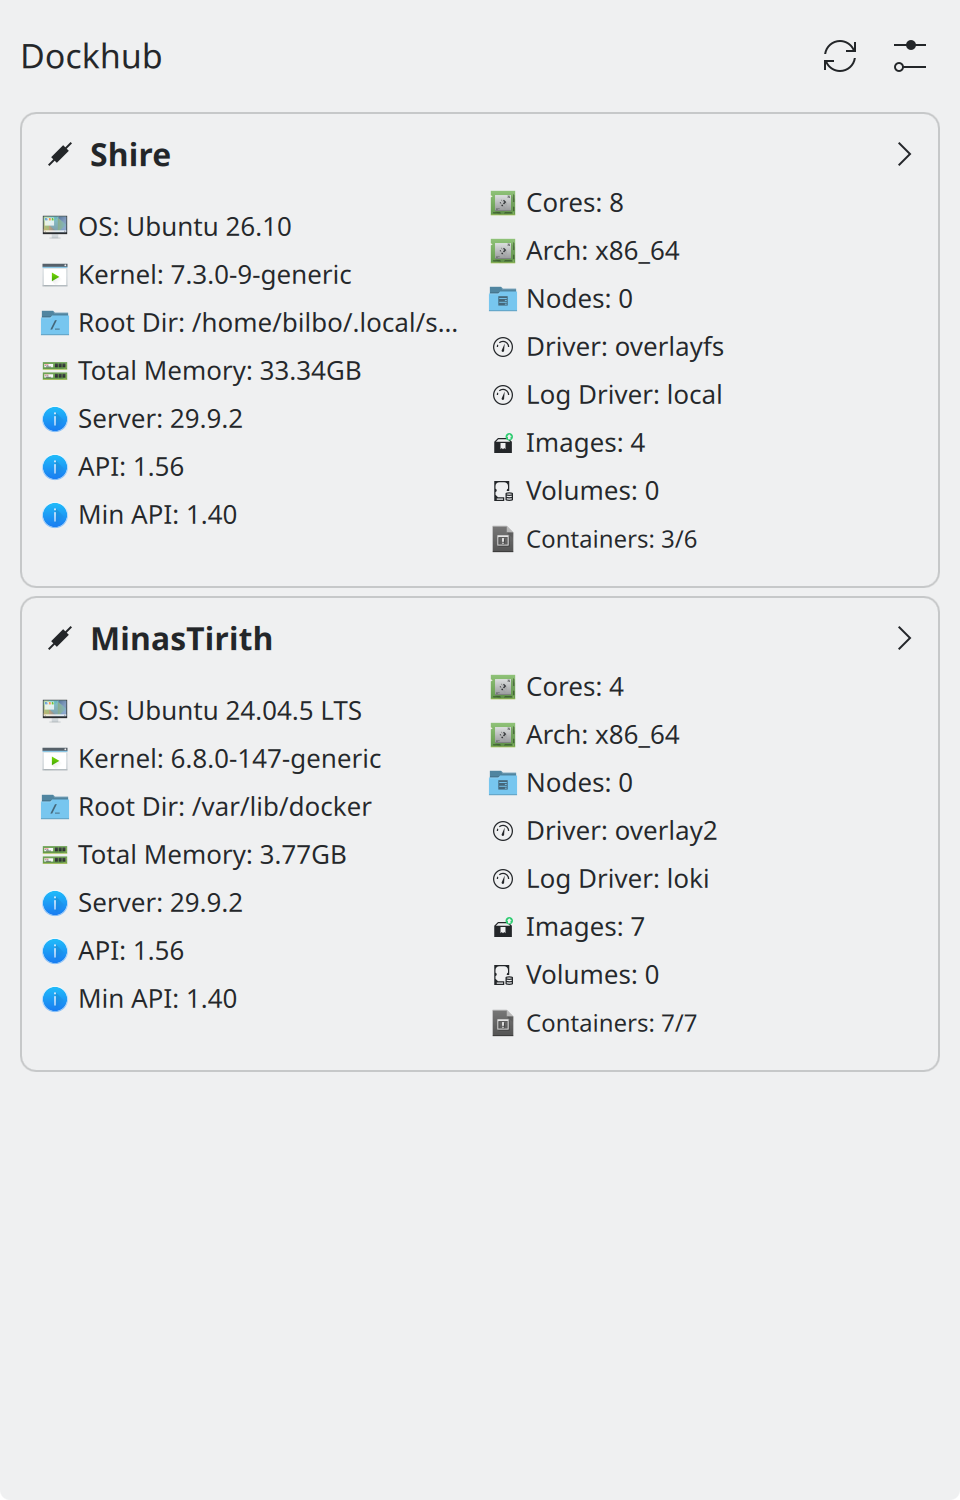
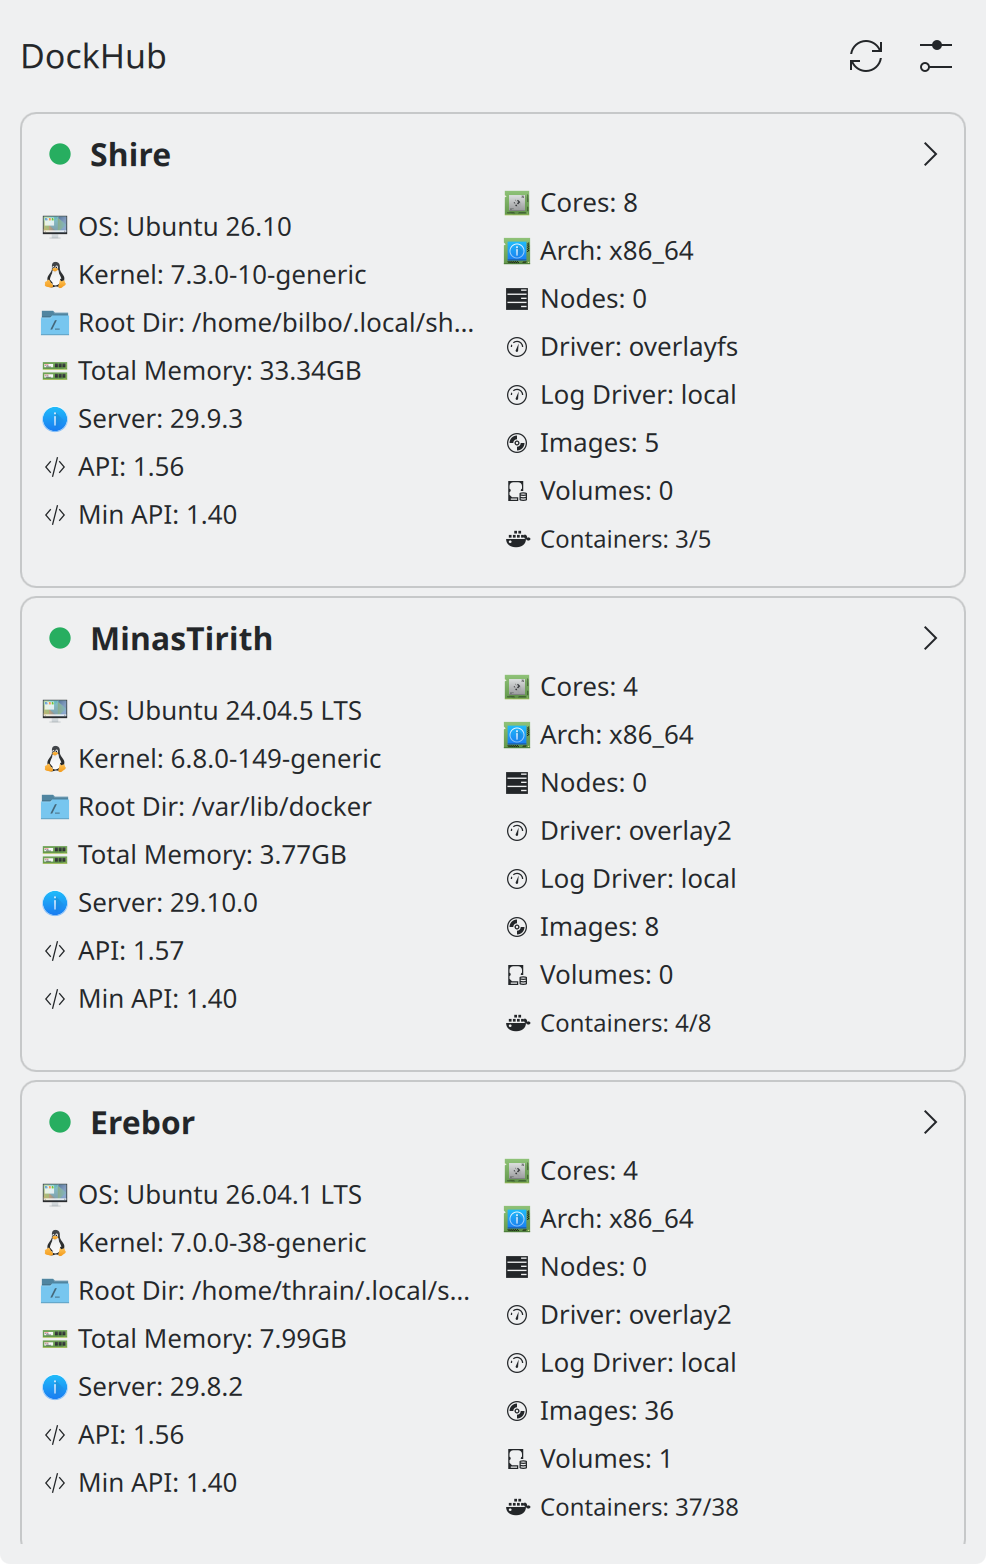
docs: Update screenshots and README.md

diff --git a/README.md b/README.md
@@ -5,14 +5,15 @@
 ## Screenshots
 
 <p align="center">
-  <img src="contents/screenshots/Servers_2_column.png" alt="DockHub - Server Details 2" width="300">
-  <img src="contents/screenshots/Servers_Icon_Layout.png" alt="DockHub - Server Icons Layout" width="300">
-  <img src="contents/screenshots/Servers_Icon_Layout_Expanded.png" alt="DockHub - Server Icons Layout Expanded" width="300">
-  <img src="contents/screenshots/Server_Dashboard.png" alt="DockHub - Servers" width="300">
-  <img src="contents/screenshots/Server_Dashboard_Compact.png" alt="DockHub - Servers - Compact" width="300">
-  <img src="contents/screenshots/Container_Expanded.png" alt="DockHub - Container Expanded" width="300">
-  <img src="contents/screenshots/Image_Expanded.png" alt="DockHub - Image Expanded" width="300">
-  <img src="contents/screenshots/Settings_General.png" alt="DockHub - Settings" width="300">
+  <img src="contents/screenshots/Servers_2_column.png" alt="DockHub - Server Details 2" width="250">
+  <img src="contents/screenshots/Servers_Icon_Layout.png" alt="DockHub - Server Icons Layout" width="250">
+  <img src="contents/screenshots/Servers_Icon_Layout_Expanded.png" alt="DockHub - Server Icons Layout Expanded" width="250">
+  <img src="contents/screenshots/Server_Dashboard.png" alt="DockHub - Servers" width="250">
+  <img src="contents/screenshots/Server_Dashboard_Compact.png" alt="DockHub - Servers - Compact" width="250">
+  <img src="contents/screenshots/Container_Expanded.png" alt="DockHub - Container Expanded" width="250">
+  <img src="contents/screenshots/Image_Expanded.png" alt="DockHub - Image Expanded" width="250">
+  <img src="contents/screenshots/Settings_General.png" alt="DockHub - Settings" width="250">
+  <img src="contents/screenshots/Settings_Servers.png" alt="DockHub - Settings Servers" width="250">
 </p>
 
 ## Videos
